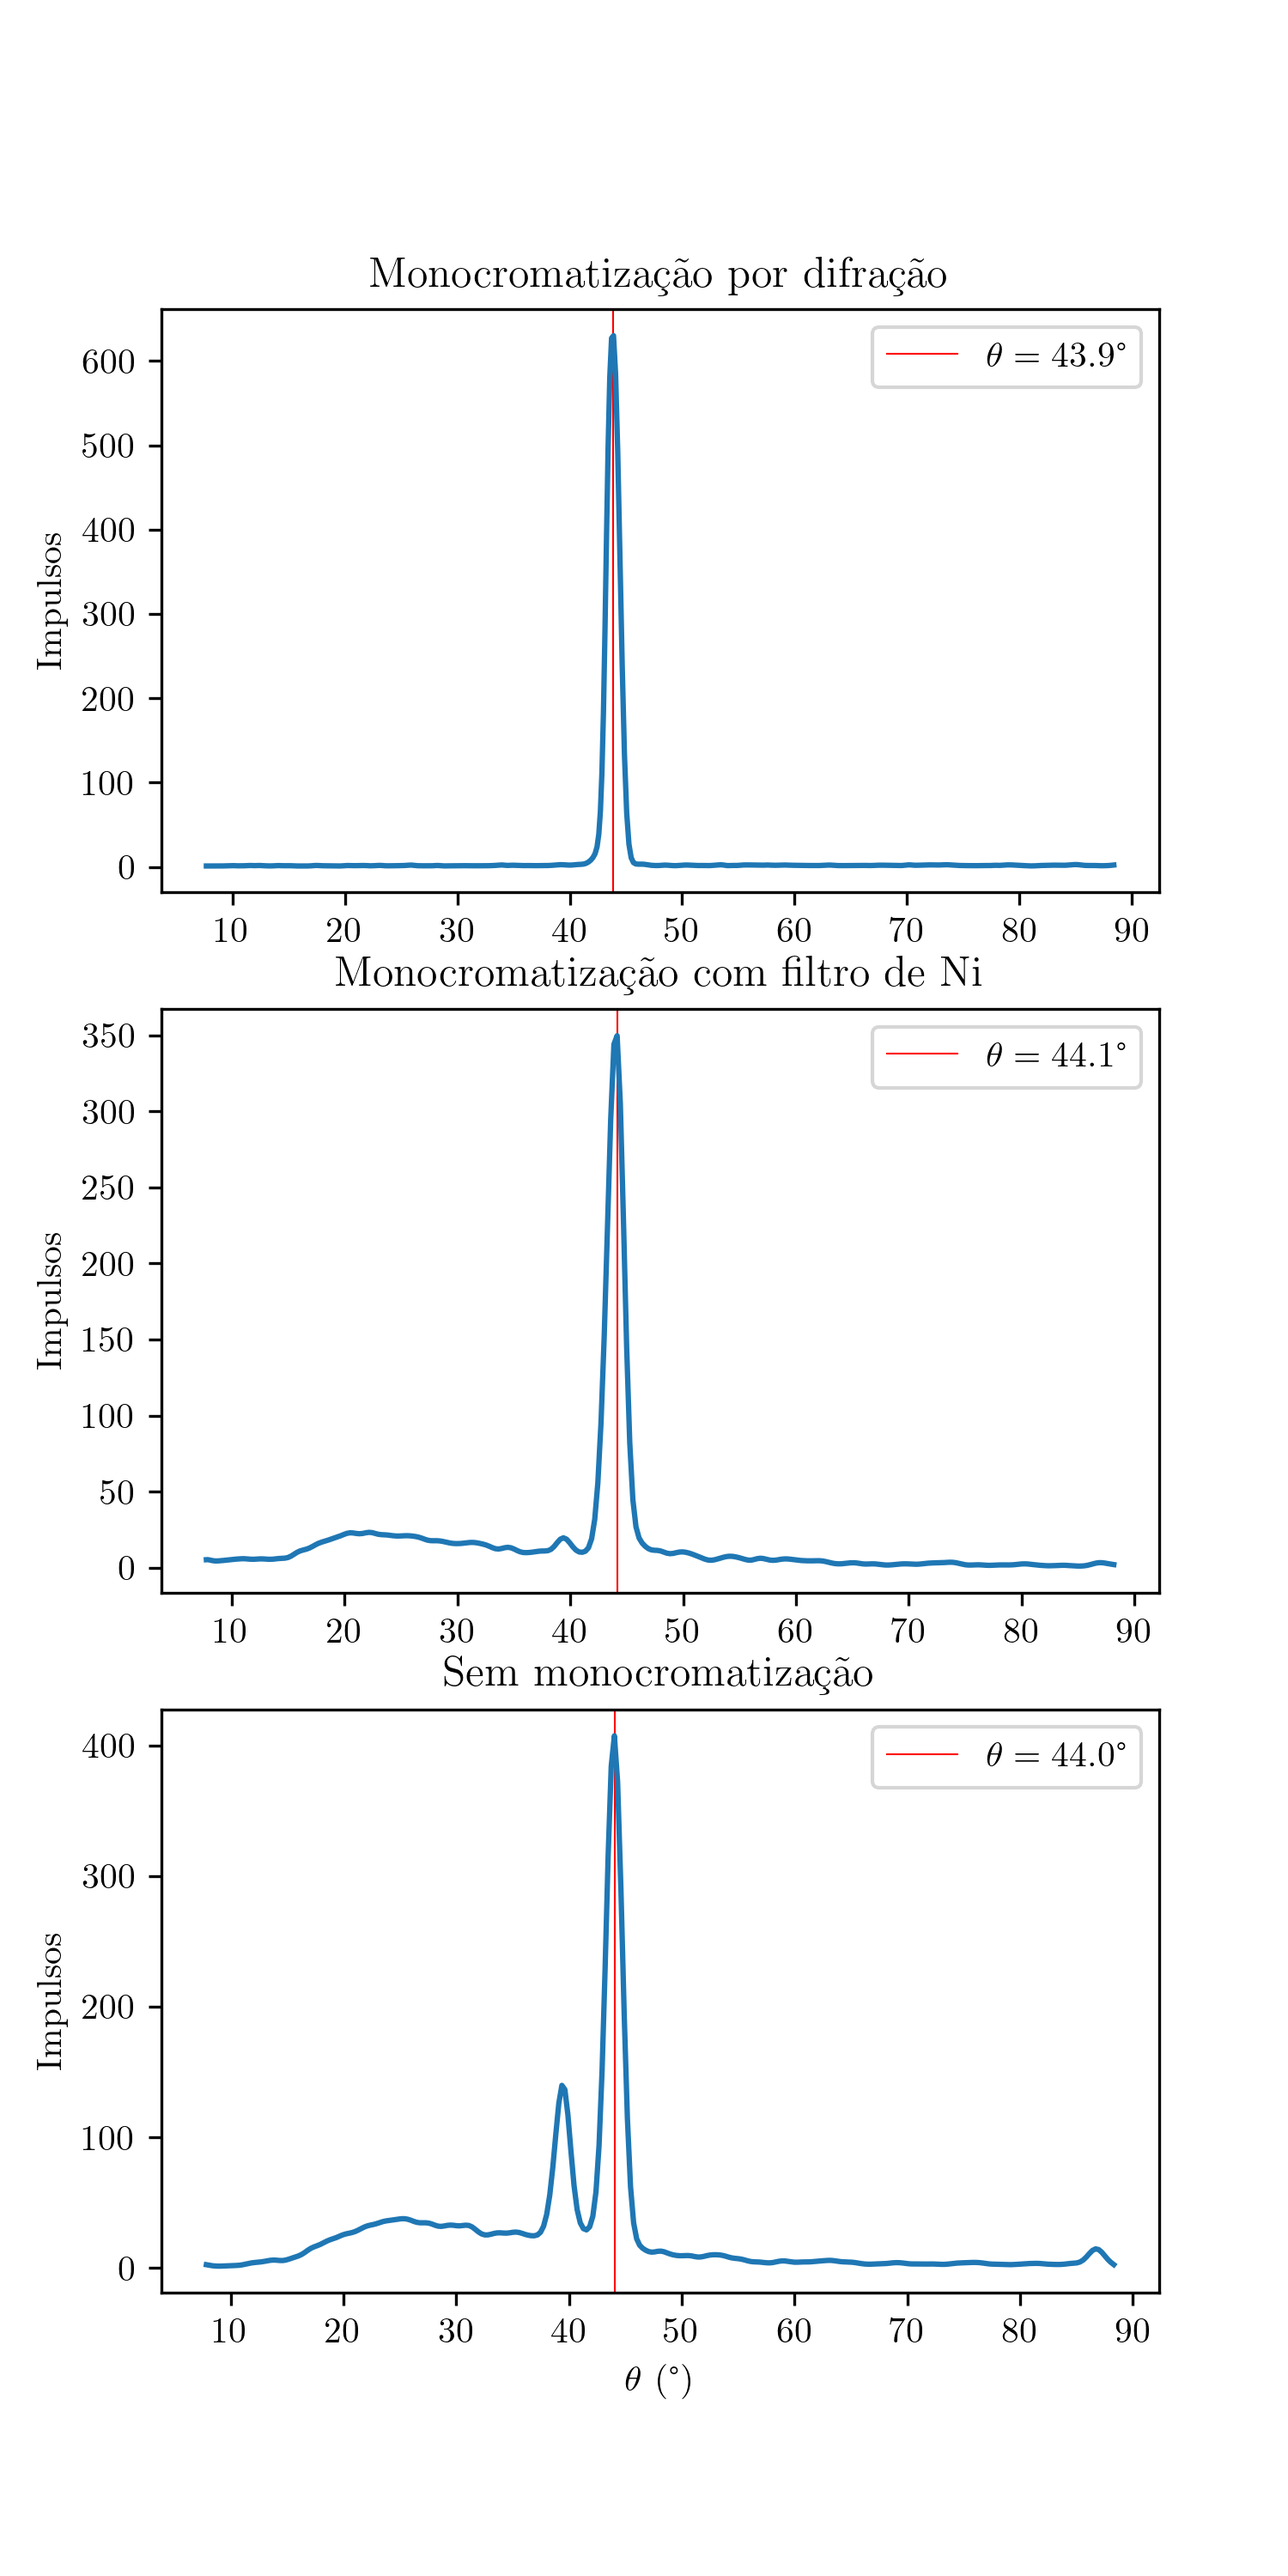
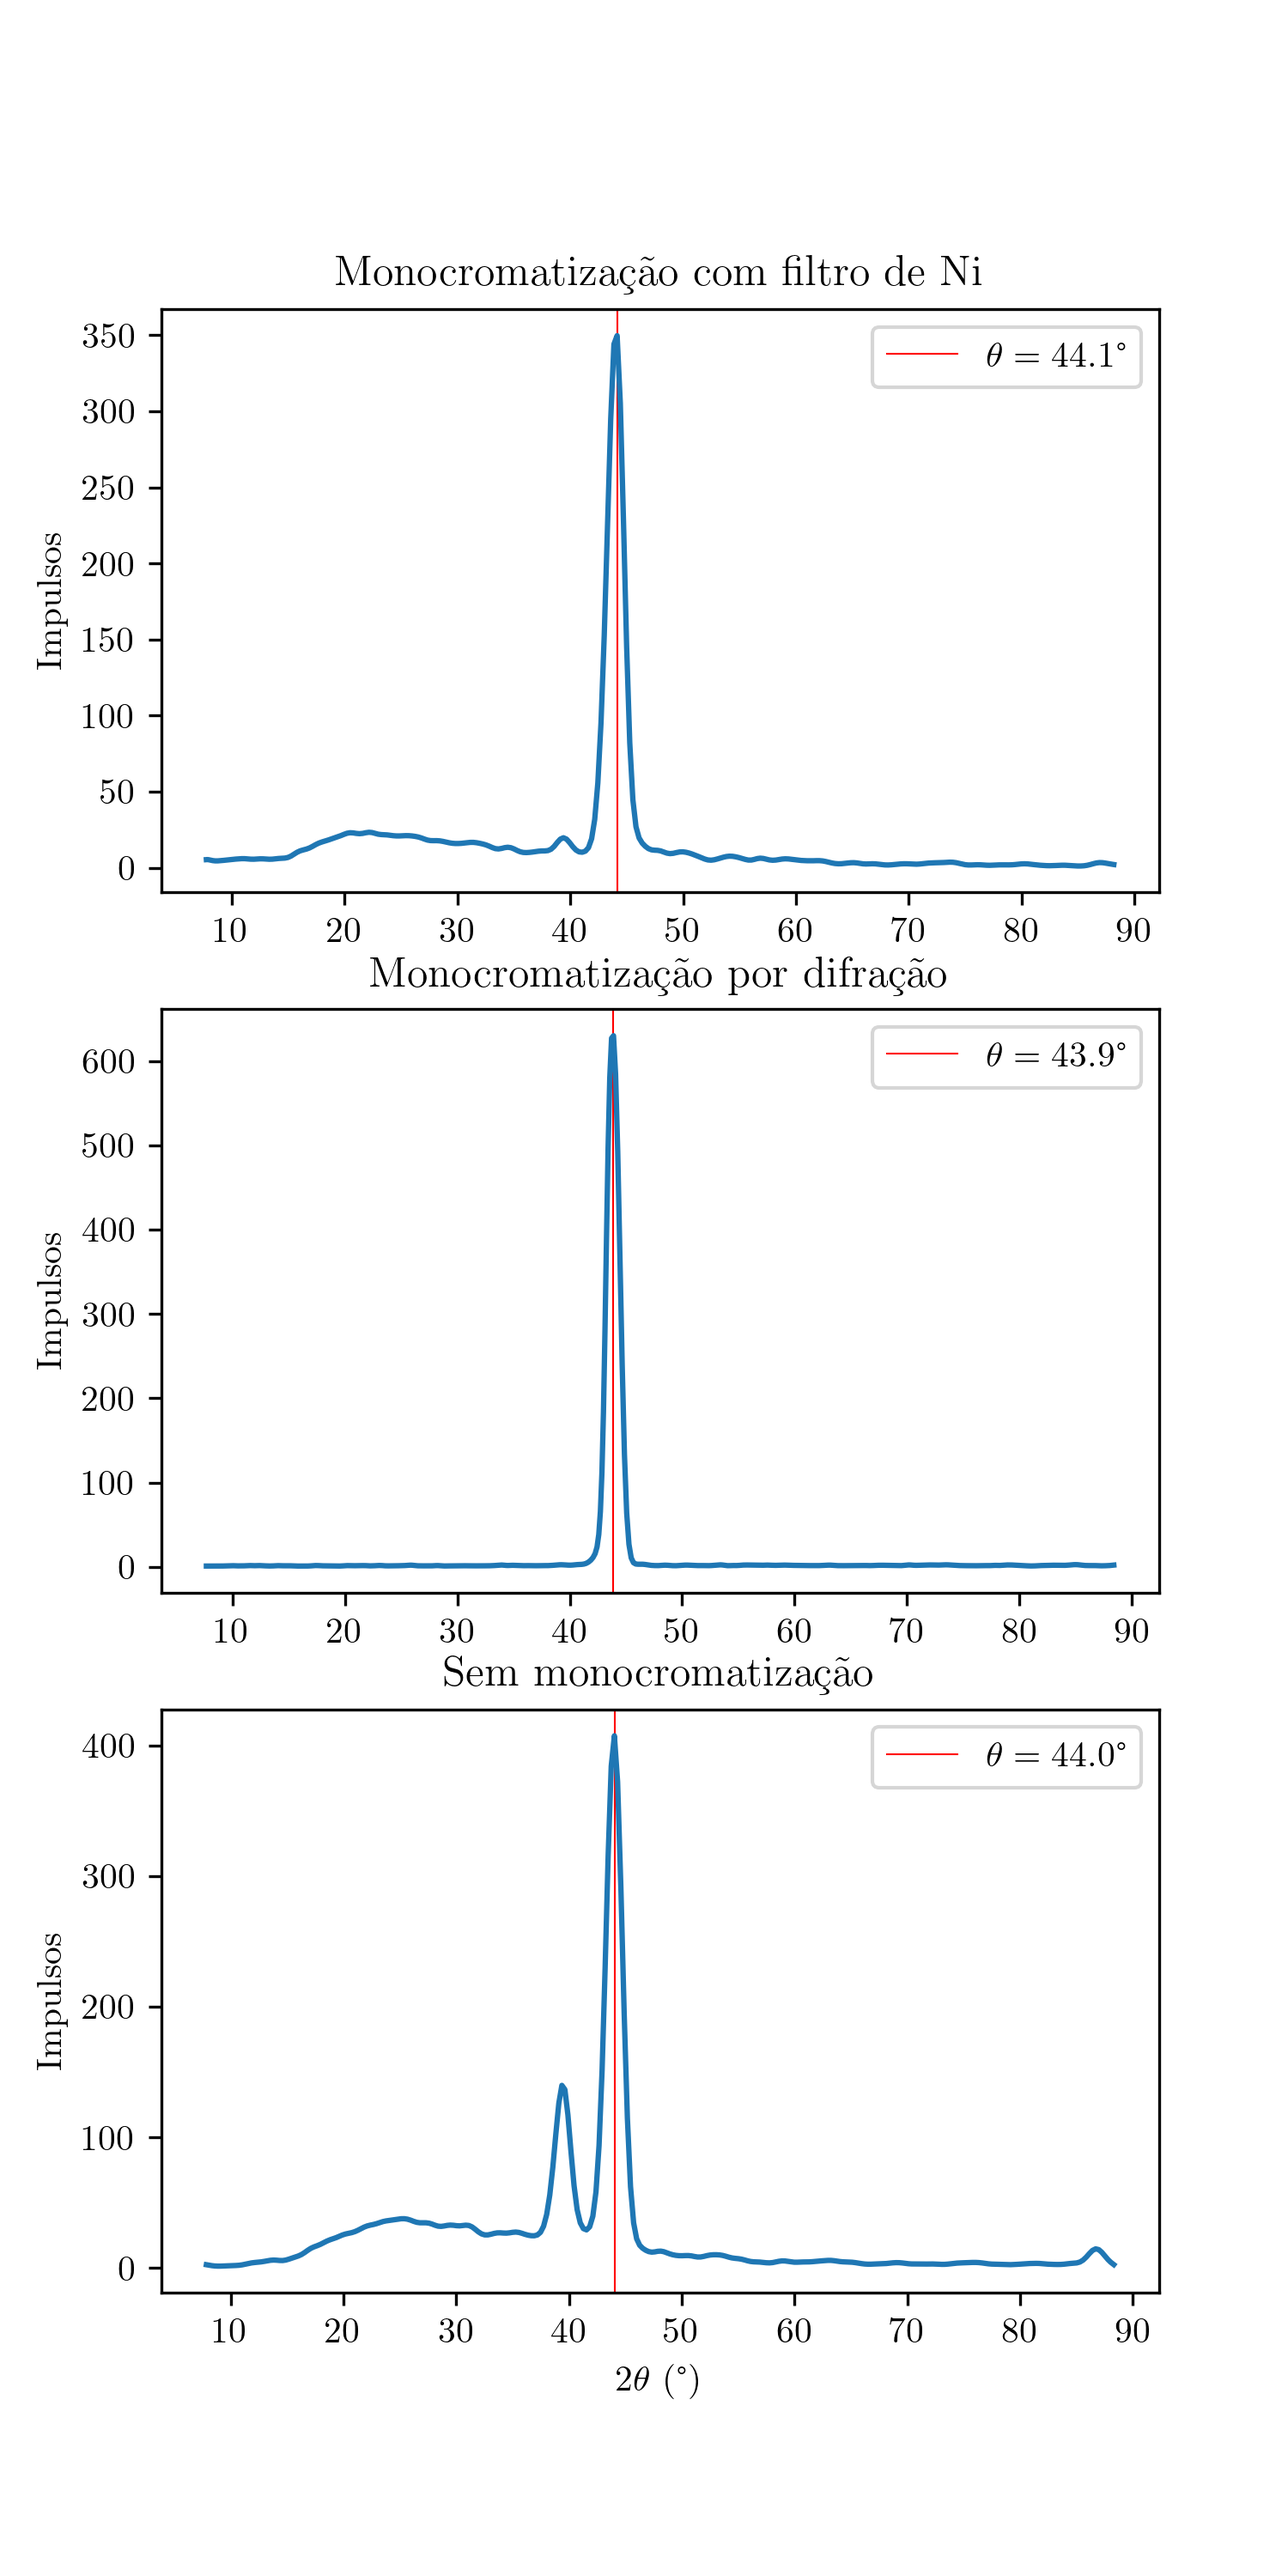
Fixing xlabel

diff --git a/monochrom.py b/monochrom.py
@@ -41,7 +41,7 @@ monochrom_types.append("none")
 
 fig, axes = plt.subplots(3, 1)
 
-axes[-1].set(xlabel=r"$\theta$ (\si{\degree})")
+axes[-1].set(xlabel=r"$2\theta$ (\si{\degree})")
 
 # Adding correction to the angles based on the result of angular.py
 correction_df = pd.read_csv("results/angular_result.csv", decimal=",")
